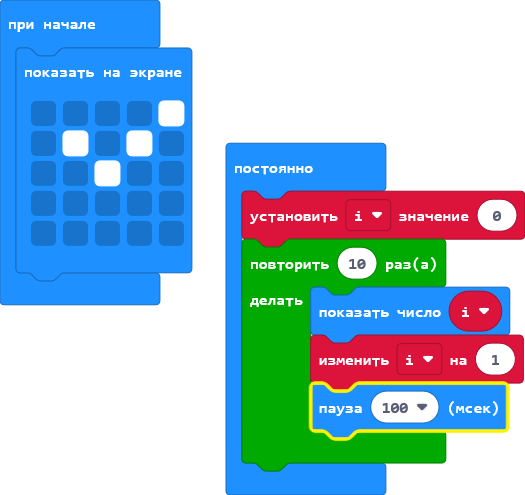
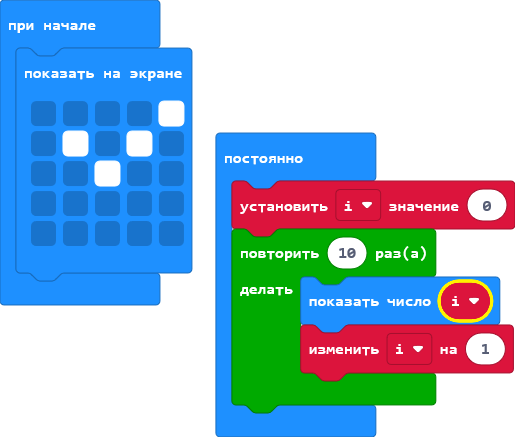
Обновить pxt.json, main.blocks, main.ts, main.py

diff --git a/main.ts b/main.ts
@@ -1,16 +1,16 @@
 let i = 0
 basic.showLeds(`
     . . . . #
-    . # . # .
-    . . # . .
-    . . . . .
-    . . . . .
-    `)
-basic.forever(function () {
+        . # . # .
+        . . # . .
+        . . . . .
+        . . . . .
+`)
+basic.forever(function on_forever() {
+    
     i = 0
     for (let index = 0; index < 10; index++) {
         basic.showNumber(i)
         i += 1
-        basic.pause(100)
     }
 })

diff --git a/main.py b/main.py
@@ -1,3 +1,16 @@
+i = 0
+basic.show_leds("""
+    . . . . #
+        . # . # .
+        . . # . .
+        . . . . .
+        . . . . .
+""")
+
 def on_forever():
-    pass
+    global i
+    i = 0
+    for index in range(10):
+        basic.show_number(i)
+        i += 1
 basic.forever(on_forever)
